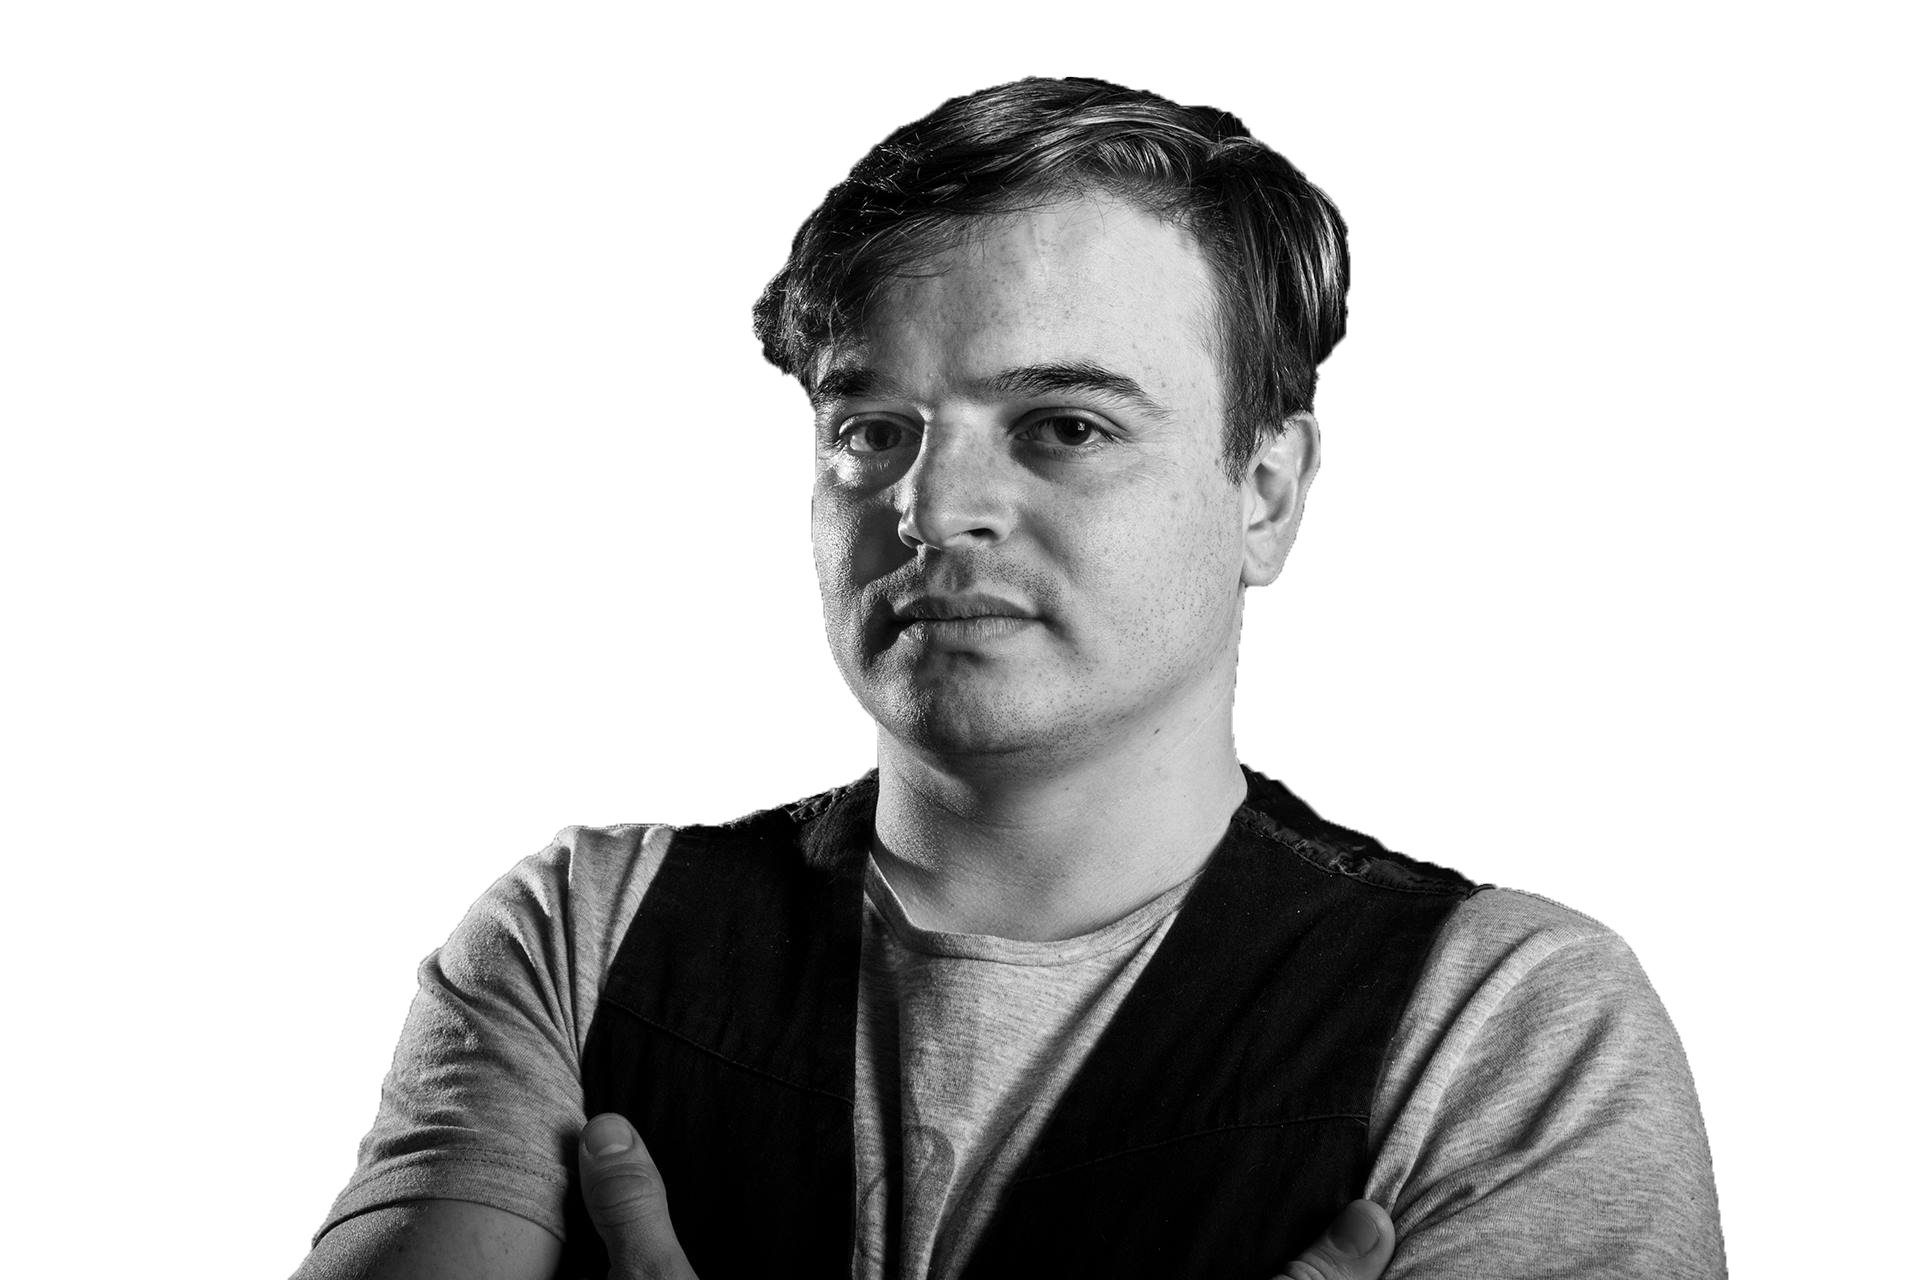
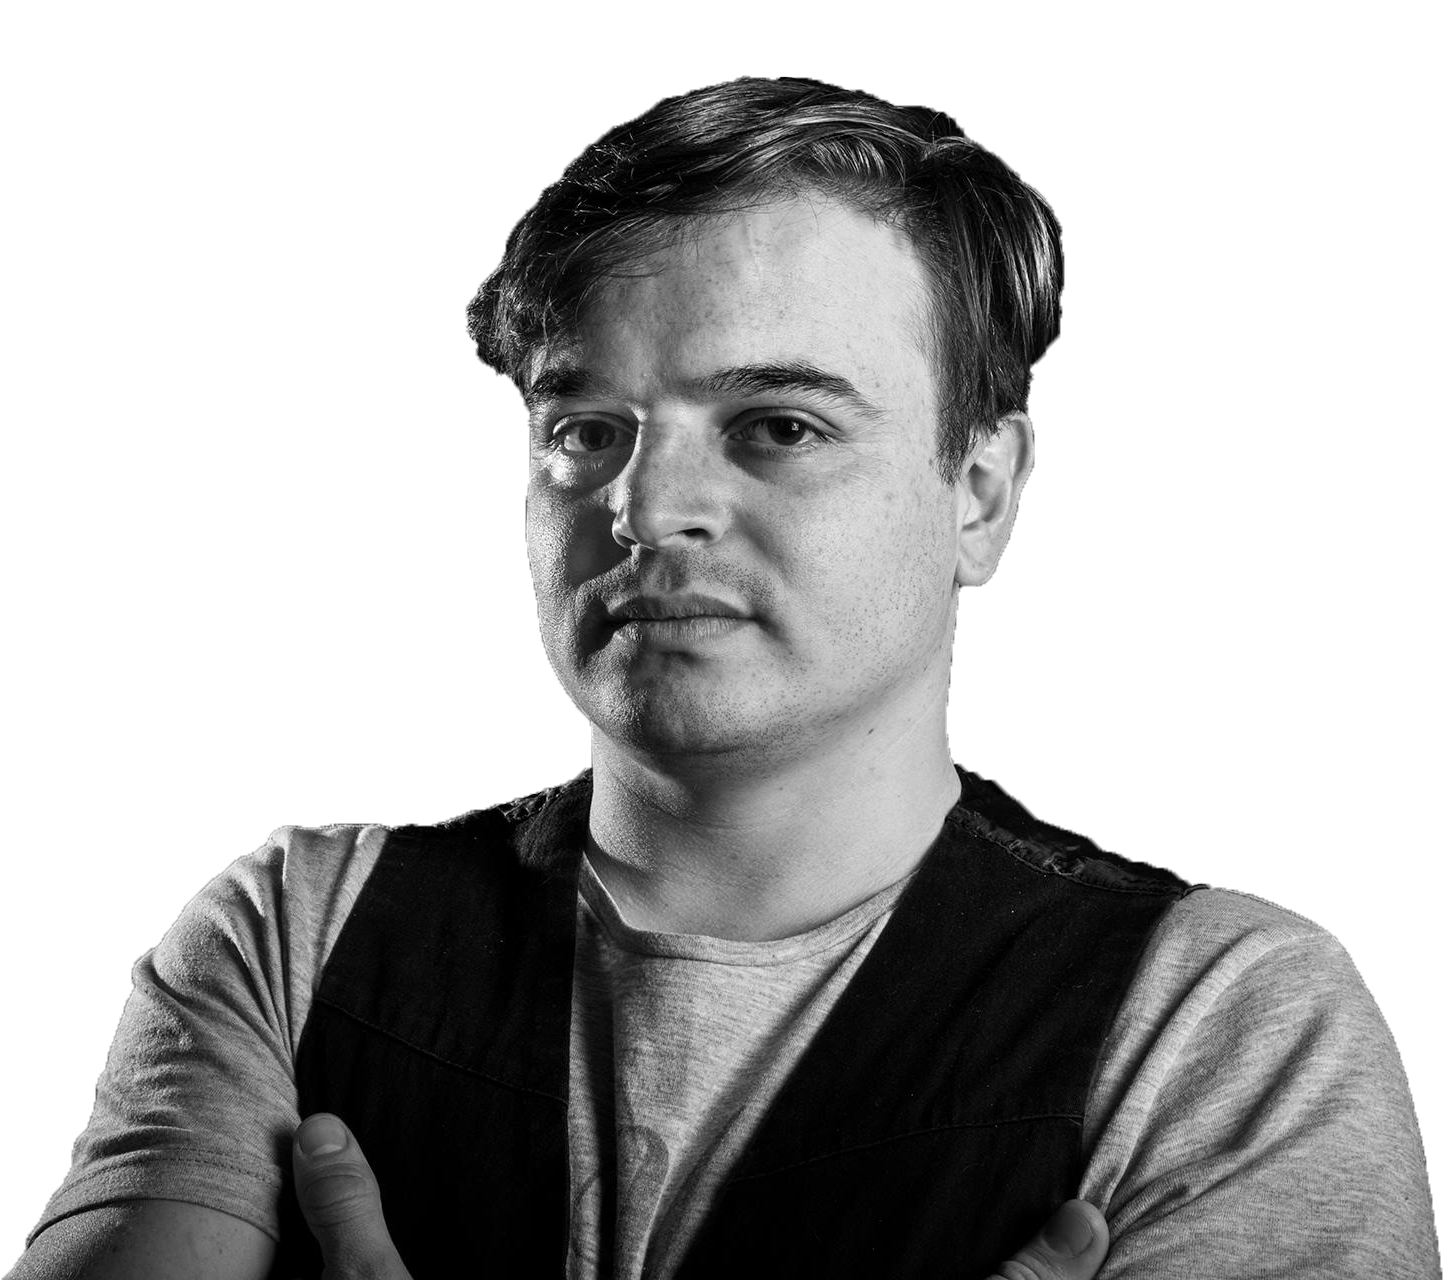
Add files via upload

diff --git a/style.css b/style.css
@@ -1,1 +1,1 @@
-*{padding:0;margin:0;box-sizing:border-box;list-style-type:none;text-decoration:none;position:relative;font-family:"Red Hat Text",sans-serif}body{width:100%;min-height:100vh;background-color:#111}nav{display:flex;height:100%;padding-left:25px}nav .nav-button{display:flex;flex-direction:column;justify-content:center;align-items:center;width:50px;color:#F2F2F2}nav .nav-button .hamburger_stick{display:inline-block;width:35px;height:2px;margin:3px;background-color:#F2F2F2;transition:all .2s ease-in-out}nav .nav-list{display:flex;margin-left:40px}nav .nav-list-item{display:flex;padding:20px 5px;text-transform:uppercase;visibility:hidden;opacity:0;transform:translateX(-20px);transition:all .2s ease-in-out}nav .nav-list-item a{font-size:14px;padding:10px;text-transform:uppercase;color:#F2F2F2;font-weight:300}.selected{transform:rotate(-45deg) translate(-3px, 3px)}.selected2{transform:rotate(45deg) translate(-3px, -3px)}.selected4{opacity:1 !important;visibility:visible !important;transform:translateX(0) !important}#header-section{min-height:100vh}#header-section .header-title-container{display:flex;justify-content:center}#header-section .header-title-container .header-title{display:flex;flex-direction:column;justify-content:center;align-items:center;color:#F2F2F2;text-transform:uppercase}#header-section .header-title-container .header-title h1{display:flex;flex-direction:column;font-weight:700}#header-section .header-title-container .header-title h1 span:first-child{font-size:70px;margin-bottom:-17px}#header-section .header-title-container .header-title h1 span:nth-child(2){padding-left:3px;font-size:23.8px}#header-section .header-title-container .header-title h3{font-size:11px;font-weight:300}#header-section .header-title-container .header-intro{width:5px;height:96px;background-color:#ff0;align-self:flex-end;position:relative;right:2px;bottom:2px}#header-section .header-image{display:flex;justify-content:center;height:240px;margin-top:90px}#header-section .header-image .header-image-polygon{width:240px;height:240px;-webkit-clip-path:polygon(50% 0%, 100% 82%, 50% 100%, 0 82%);background-color:#ccc}#header-section .header-image img{width:320px;max-height:213.328px;position:absolute;bottom:0;left:50%;transform:translate(-55%)}#header-section .header-social ul{display:flex;justify-content:center;margin-top:10px}#header-section .header-social ul li a img{width:43.35px;filter:invert(84%) sepia(93%) saturate(5119%) hue-rotate(0deg) brightness(104%) contrast(101%)}#about-section{width:100%;min-height:100vh;background-color:#F2F2F2}#about-section div{display:flex;flex-direction:column;justify-content:center;width:80%;margin:auto}#about-section div h4{width:286px;height:89px;font-size:64px;text-transform:uppercase;text-align:center;background-color:#111;color:#F2F2F2;margin:36px auto}#about-section div div{width:286px;font-size:14px;text-transform:uppercase;font-weight:400;color:#111}#about-section div div span{font-weight:500}#about-section div div p{padding:7px 0}#about-section .leader{padding-bottom:77px}#about-section .leader h4{margin-top:78px}#work-section{width:100%;min-height:100vh;background-color:#111;display:flex;flex-direction:column;justify-content:center;align-items:center;padding:13px 13px 0 13px}#work-section .project-container{width:100%;height:85vh;background-color:#F2F2F2}#work-section .project-arrow{display:flex;flex-direction:column;justify-content:center;align-items:center;color:#F2F2F2;font-weight:400;margin:13px}#work-section .project-arrow .arrow{border:solid #F2F2F2;border-width:0 3px 3px 0;display:inline-block;padding:7.5px;transform:rotate(45deg);-webkit-transform:rotate(45deg)}#contact-section{background-color:#F2F2F2;width:100%;min-height:100vh;padding:0 20px;display:flex;flex-direction:column;justify-content:center;align-items:center}#contact-section h4{font-size:36px;text-align:center;font-weight:500;margin:0 0 53px 0}#contact-section form{width:100%;height:100%}#contact-section form input{padding:10px 0;background-color:#F2F2F2;border:none;font-size:16px;font-style:italic;border-bottom:2px solid #ccc}#contact-section form input:placeholder{color:#111}#contact-section form input:focus{outline:none;border-bottom-color:#111}#contact-section form div{width:100%;display:flex;gap:29px}#contact-section form div input{width:50%}#contact-section form input[type='mail'],#contact-section form input[name='Message'],#contact-section form input[type='submit']{width:100%}#contact-section form input[type='mail']{margin:39px 0}#contact-section form input[name='Message']{padding:0 0 169px 0}#contact-section form input[type='submit']{background-color:#111;border:none;color:#F2F2F2;font-style:normal;padding:11px;margin-top:25px;font-size:20px;font-weight:500}#footer-section{background-color:#111;padding:12px 14px}#footer-section p{text-align:center;text-transform:uppercase;font-size:13px;font-weight:500;color:#F2F2F2}
+*{padding:0;margin:0;box-sizing:border-box;list-style-type:none;text-decoration:none;position:relative;font-family:"Red Hat Text",sans-serif}html{scroll-behavior:smooth}body{width:100%;min-height:100vh;background-color:#F2F2F2}nav{display:flex;height:100%;padding-left:25px}nav .nav-button{display:flex;flex-direction:column;justify-content:center;align-items:center;width:50px;color:#F2F2F2}nav .nav-button .hamburger_stick{display:inline-block;width:35px;height:2px;margin:3px;background-color:#F2F2F2;transition:all .2s ease-in-out}nav .nav-list{display:flex;margin-left:40px}nav .nav-list-item{display:flex;padding:20px 5px;text-transform:uppercase;visibility:hidden;opacity:0;transform:translateX(-20px);transition:all .2s ease-in-out}nav .nav-list-item a{font-size:14px;padding:10px;text-transform:uppercase;color:#F2F2F2;font-weight:300}.selected{transform:rotate(-45deg) translate(-3px, 3px)}.selected2{transform:rotate(45deg) translate(-3px, -3px)}.selected4{opacity:1 !important;visibility:visible !important;transform:translateX(0) !important}#header-section{min-height:100vh;background-color:#111}#header-section .header-title-container{display:flex;justify-content:center}#header-section .header-title-container .header-title{display:flex;flex-direction:column;justify-content:center;align-items:center;color:#F2F2F2;text-transform:uppercase}#header-section .header-title-container .header-title h1{display:flex;flex-direction:column;font-weight:700}#header-section .header-title-container .header-title h1 span:first-child{font-size:70px;margin-bottom:-17px}#header-section .header-title-container .header-title h1 span:nth-child(2){padding-left:3px;font-size:23.8px}#header-section .header-title-container .header-title h3{font-size:11px;font-weight:300}#header-section .header-title-container .header-intro{width:5px;height:96px;background-color:#ff0;align-self:flex-end;position:relative;right:2px;bottom:2px}#header-section .header-image{display:flex;justify-content:center;position:relative;margin-top:80px}#header-section .header-image img[src="./Media/Images/Pablo.png"]{width:261px;position:absolute;bottom:0;padding-right:15px}#header-section .header-social ul{display:flex;justify-content:center;margin-top:10px}#header-section .header-social ul li a{padding:0 3px}#header-section .header-social ul li a img{width:40px;filter:invert(84%) sepia(93%) saturate(5119%) hue-rotate(0deg) brightness(104%) contrast(101%)}#header-section .header-social ul li a>img[src="./Media/Icons/LinkedIn.svg"]{border-radius:10px}#header-section .header-social ul li a>img[src="./Media/Icons/IMDb.svg"]{border-radius:10px}#header-section .header-social ul li a>img[src="./Media/Icons/GitHub.svg"]{border-radius:10px}#header-section .quote{font-size:20px;color:#F2F2F2;text-align:center;width:80%;display:none}#about-section{width:100%;min-height:100vh;background-color:#F2F2F2}#about-section div{display:flex;flex-direction:column;justify-content:center;width:80%;margin:auto}#about-section div h4{width:286px;height:89px;font-size:64px;text-transform:uppercase;text-align:center;background-color:#111;color:#F2F2F2;margin:36px auto}#about-section div div{width:286px;font-size:14px;text-transform:uppercase;font-weight:400;color:#111}#about-section div div span{font-weight:500}#about-section div div p{padding:7px 0}#about-section .leader{padding-bottom:77px}#about-section .leader h4{margin-top:78px}#work-section{width:100%;min-height:100vh;background-color:#111;display:flex;flex-direction:column;justify-content:center;align-items:center;padding:13px 13px 0 13px}#work-section .project-container{width:100%;height:85vh;background-color:#F2F2F2}#work-section .project-arrow{display:flex;flex-direction:column;justify-content:center;align-items:center;color:#F2F2F2;font-weight:400;margin:13px}#work-section .project-arrow .arrow{border:solid #F2F2F2;border-width:0 3px 3px 0;display:inline-block;padding:7.5px;transform:rotate(45deg);-webkit-transform:rotate(45deg)}#contact-section{background-color:#F2F2F2;width:100%;min-height:100vh;padding:0 20px;display:flex;margin-bottom:30px;flex-direction:column;justify-content:center;align-items:center}#contact-section h4{font-size:36px;text-align:center;font-weight:500;margin:0 0 53px 0}#contact-section form{width:100%;height:100%}#contact-section form input{padding:10px 0;background-color:#F2F2F2;border:none;font-size:16px;font-style:italic;border-bottom:2px solid #ccc}#contact-section form input:placeholder{color:#111}#contact-section form input:focus{outline:none;border-bottom-color:#111}#contact-section form div{width:100%;display:flex;gap:29px}#contact-section form div input{width:50%}#contact-section form input[type='mail'],#contact-section form input[name='Message'],#contact-section form input[type='submit']{width:100%}#contact-section form input[type='mail']{margin:39px 0}#contact-section form input[name='Message']{padding:0 0 169px 0}#contact-section form input[type='submit']{background-color:#111;border:none;color:#F2F2F2;font-style:normal;padding:11px;margin-top:25px;font-size:20px;font-weight:500}#footer-section{background-color:#111;padding:12px 14px}#footer-section p{text-align:center;text-transform:uppercase;font-size:13px;font-weight:500;color:#F2F2F2}@media only screen and (min-height: 720px) and (max-height: 800px){#header-section .quote{display:block;margin:40px auto 0 auto;font-weight:300}}@media only screen and (min-width: 768px){.header-image img[src="./Media/Images/Polygon.svg"]{width:48vw !important}.header-image img{width:50vw !important;max-height:initial !important}.header-social ul li a img{width:8.7vw !important}}

diff --git a/index.html b/index.html
@@ -20,8 +20,8 @@
 			</div>
 
 			<ul class="nav-list">
-				<li class="nav-list-item"><a href="#">Hire Me</a></li>
-				<li class="nav-list-item"><a href="#">Recent Work</a></li>
+				<li class="nav-list-item"><a href="#contact-section">Hire Me</a></li>
+				<li class="nav-list-item"><a href="#work-section">Recent Work</a></li>
 			</ul>
 		</nav>
 		<div class="header-title-container">
@@ -35,7 +35,7 @@
 			</div>
 		</div>
 		<div class="header-image">
-			<div class="header-image-polygon"></div>
+			<img src="./Media/Images/Polygon.svg" alt="">
 			<img src="./Media/Images/Pablo.png" alt="">
 		</div>
 		<div class="header-social">
@@ -47,6 +47,9 @@
 				<li><a href=""><img src="./Media/Icons/Twitter.svg" alt=""></a></li>
 			</ul>
 		</div>
+		<p class="quote">
+			"What I love most in life is solving technical and non-technical problems."
+		</p>
 	</div>
 
 	<div id="about-section">
@@ -107,13 +110,13 @@
 
 	<div id="contact-section">
 		<h4>CONTACT ME</h4>
-		<form action="">
+		<form action="mailto:tiltedveggie@outlook.kr">
 			<div>
-				<input type="text" placeholder="Name" name="Name">
+				<input type="text" placeholder="Name" name="Name" required>
 				<input type="text" placeholder="Lastname" name="Lastname">
 			</div>
-			<input type="mail" placeholder="Email">
-			<input type="text" placeholder="Your Message" name="Message">
+			<input type="mail" placeholder="Email" required>
+			<input type="text" placeholder="Your Message" name="Message" required>
 			<input type="submit" value="SUBMIT">
 		</form>
 	</div>
